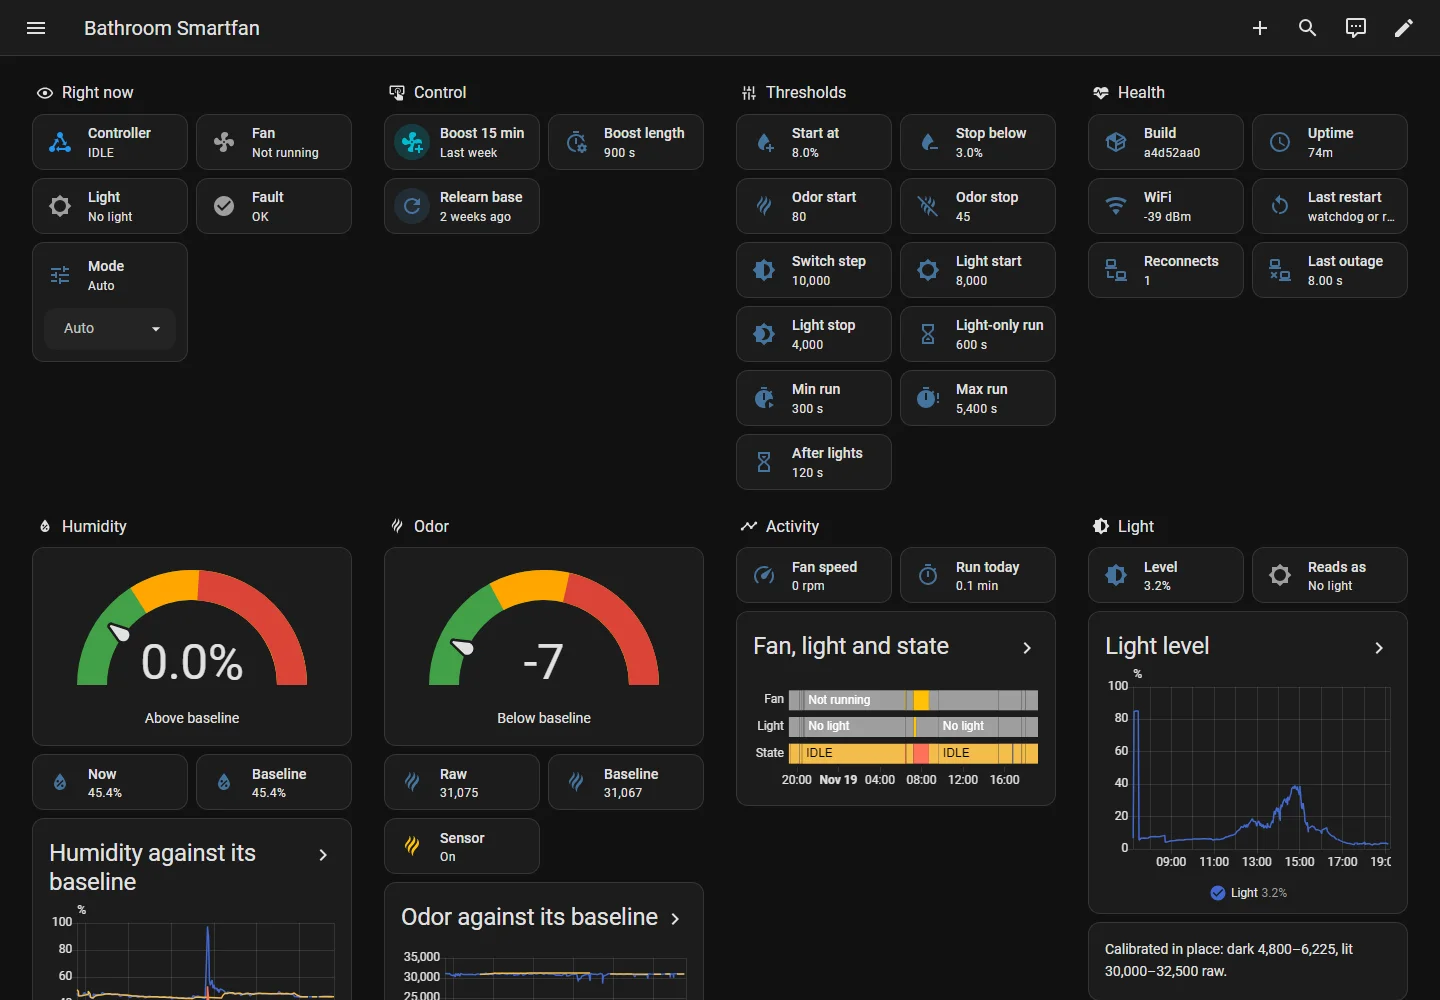
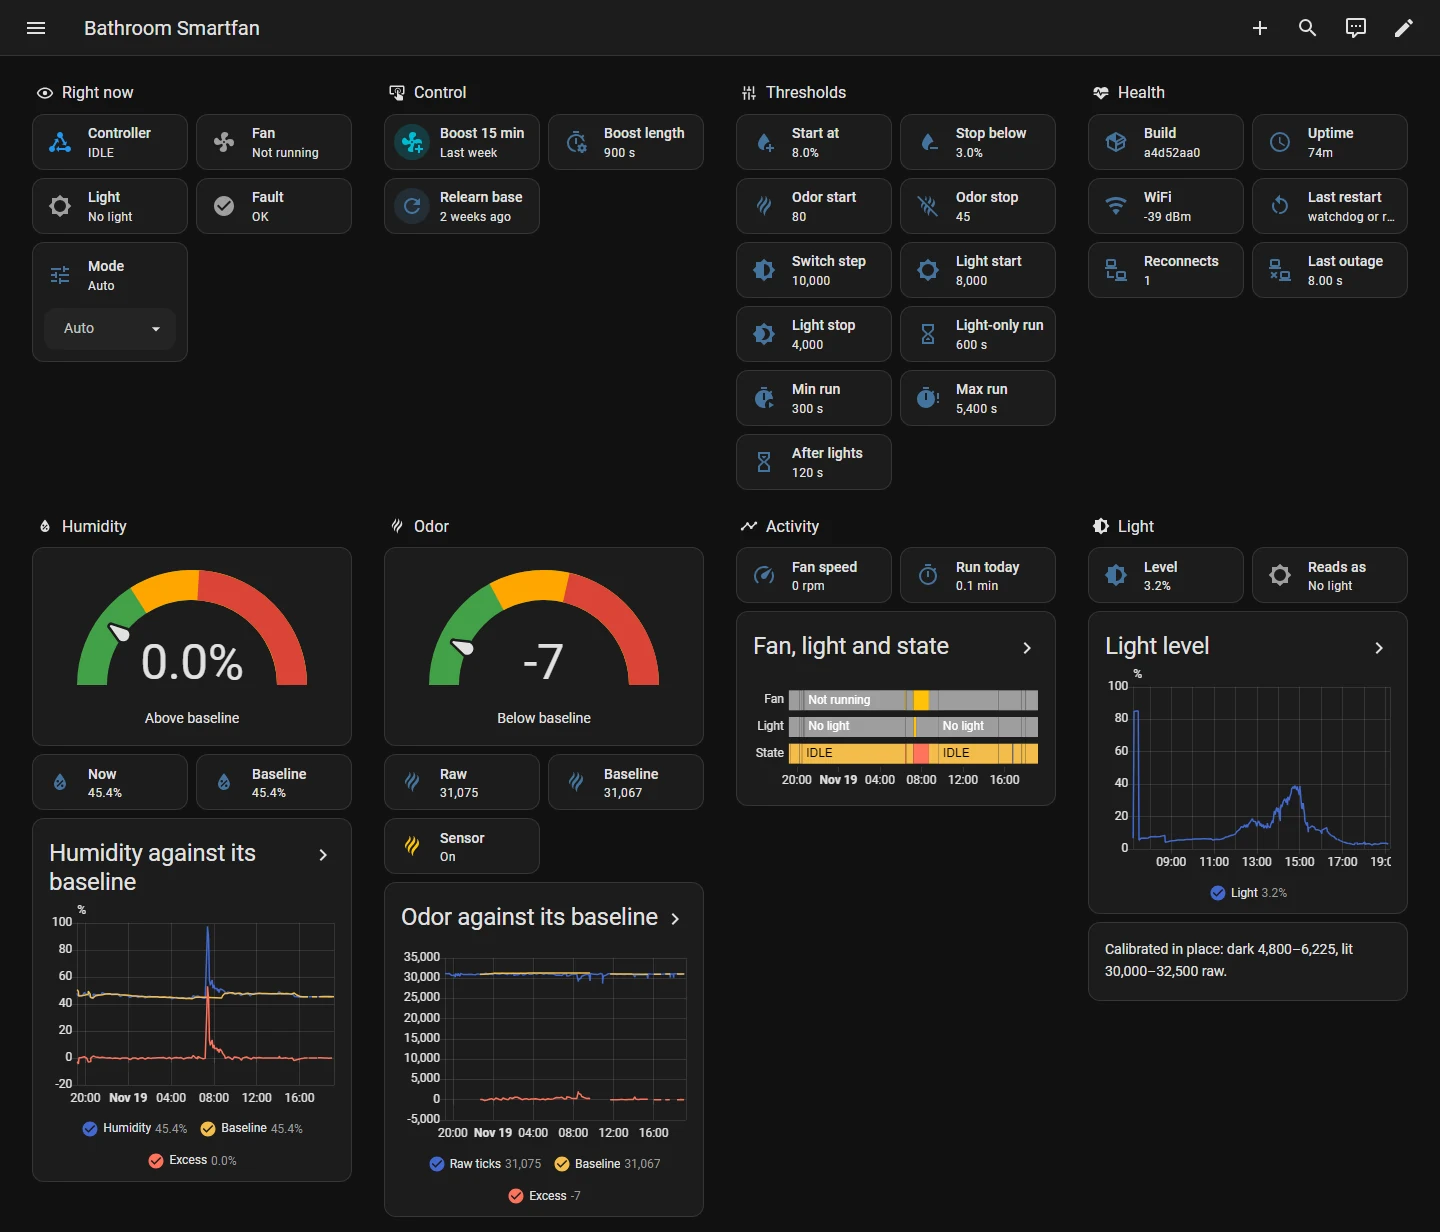
Show the whole Home Assistant dashboard, and its humidity story on phones
The desktop shot stopped mid-chart; it now runs to the bottom of the
humidity and odor charts, so the shower spike against its baseline is
in frame. On phones the shot was a column of idle tiles cut off mid-card
with a loading spinner on one of them; it is now the Humidity section,
gauge and 24-hour chart, captured read-only from the live fan.

diff --git a/site/index.html b/site/index.html
@@ -266,8 +266,8 @@
     and control as an entity. This is the dashboard it ships with, on a live fan.</p>
   <a class="shot" href="kb/networking/">
     <picture>
-      <source media="(max-width: 560px)" srcset="img/ha-dashboard-phone.webp" width="660" height="1000">
-      <img src="img/ha-dashboard.webp" alt="The Smartfan dashboard in Home Assistant: controller state, controls, thresholds, health, and humidity, odor and light charts" loading="lazy" width="1440" height="1000">
+      <source media="(max-width: 560px)" srcset="img/ha-dashboard-phone.webp" width="880" height="1293">
+      <img src="img/ha-dashboard.webp" alt="The Smartfan dashboard in Home Assistant: controller state, controls, thresholds, health, and humidity, odor and light charts" loading="lazy" width="1440" height="1232">
     </picture>
   </a>
   <div class="buttons" style="margin-top: 20px">
